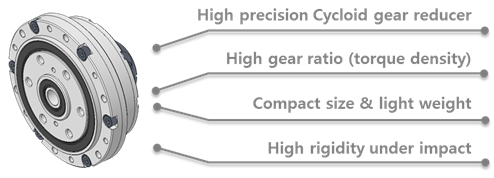
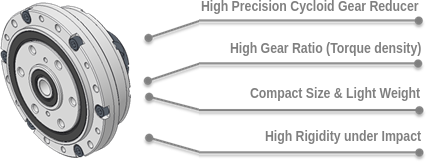
dyd minor update

diff --git a/docs/en/dyd/all_dyd.md b/docs/en/dyd/all_dyd.md
@@ -18,8 +18,6 @@ Generally, a traditional Cycloidal Gear Drive is well known as being strong but 
 
 ![](/assets/images/dyd/dyd_spec_01.png)
 
-McMaster-Carr - industrial-focus distributor of hardware and components. They stock a healthy selection of related items including servos / stepper motors, DC motors, etc. https://www.mcmaster.com/motors/
-{: .notice}
 
 |                      Characteristics                      |  Planetary  |  Harmonic   |     DYD     |
 |:---------------------------------------------------------:|:-----------:|:-----------:|:-----------:|
@@ -29,7 +27,7 @@ McMaster-Carr - industrial-focus distributor of hardware and components. They st
 |                       Light Weight                        | **&#9651;** | **&#9678;** | **&#9678;** |
 |                         Backlash                          | **&#9651;** | **&#9678;** |  &#11093;   |
 |                        Efficiency                         | **&#9678;** | **&#9678;** | **&#9678;** |
-|               Rigidity under impact (shock)               |  &#11093;   | **&#9651;** |  &#11093;   |
+|               Rigidity under impact (shock)               |  &#11093;   | **&#9651;** | **&#9678;** |
 |                     Noise & vibration                     | **&#9651;** | **&#9678;** |  &#11093;   |
 | Operating time to failure under heavy operating condition |  &#11093;   | **&#9651;** | **&#9678;** |
 
@@ -37,19 +35,19 @@ McMaster-Carr - industrial-focus distributor of hardware and components. They st
 
 ![](/assets/images/dyd/dyd_features_01.png)
 
-- Ultra High Impact Resistant
-- Lightweight
-- Hight Precision & Strong Rigidity
-- Compact Gear Module & Simple Design
+- High Durability and Strong Rigidity
+- High Impact Resistance
+- High Precision
 - Variable Gear Ratio
-- Less Backlash & Hight Efficiency
+- High Efficiency & Low Backlash
+- Lightweight & Compact Gear Module
 
 ## [Gear Ratio and Rotational Direction](#gear-ratio-and-rotational-direction)
 
 In the following image, it is shown that the rotational direction of the input motor and the output component depends on the fixed position of the reducer. When the DYD drive is fixed and the output flange is rotating, the rotational direction is opposite to the input direction while the output speed becomes reciprocal of the input speed(R). If the DYD drive housing is rotating while the output flange is fixed to the frame, the rotating direction of input and output is the same while the output becomes reciprocal of the input speed + 1(R+1).
 
 
-|     Fixed     | Output speed | Input direction | output direction |                       Example                       |
+|     Fixed     | Output Speed | Input Direction | Output Direction |                       Example                       |
 |:-------------:|:------------:|:---------------:|:----------------:|:---------------------------------------------------:|
 |    Housing    |  i=(-1)1/R   |   Cathode (+)   |    Anode (-)     |    ![](/assets/images/dyd/dyd_housing_01_kr.png)    |
 | Output flange |  i=1/(R+1)   |   Cathode (+)   |   Cathode (+)    | ![](/assets/images/dyd/dyd_output_flange_01_kr.png) |
@@ -88,17 +86,15 @@ In the following image, it is shown that the rotational direction of the input m
 |     DYD      |     14     | 51, 99 |      C,D      | S, RG, PG |         SP         |
 |     DYD      |     17     | 51, 99 |      C,D      | S, RG, PG |         SP         |
 
-- Please contact us at [develop@robotis.com](mailto:develop@robotis.com)
-
 # [Product Selection Guide](#product-selection-guide)
 
-## [Selection Flow Chart](#Selection-flow-chart)
+## [Selection Flow Chart](#selection-flow-chart)
 
 When configuring a system with reducers, the load applied to the reducer normally fluctuates during acceleration/deceleration or emergency conditions, therefore, it is recommended to reflect various operation conditions to estimate the average load and speed to select the appropriate DYD product.
 
 ![](/assets/images/dyd/dyd_selection_flowchart_01.png)
 
-## [Duty cycle](#duty-cycle)
+## [Duty Cycle](#duty-cycle)
 
 In the figure below shows an example of various torque and speed conditions during an operation. These values are critical factors in determining the lifecycle of the DYD product.
 
@@ -117,7 +113,7 @@ In the figure below shows an example of various torque and speed conditions duri
 |     t      | Duty cycle time [s]                        |     -      | -                                         |
 |            |                                            |     -      | -                                         |
 
-## [Average output load](#average-output-load)
+## [Average Output Load](#average-output-load)
 
 The average output load can be calculated as below.
 
@@ -125,7 +121,7 @@ The average output load can be calculated as below.
 
 ![](/assets/images/dyd/dyd_average_output_torque_02.png)
 
-## [Average input speed](#average-input-speed)
+## [Average Input Speed](#average-input-speed)
 
 The average input speed can be calculated as below.
 
@@ -133,7 +129,7 @@ The average input speed can be calculated as below.
 
 ![](/assets/images/dyd/dyd_average_input_speed_02.png)
 
-## [Service life)](#service-life)
+## [Service Life)](#service-life)
 
 The service life of DYD is determined by the fatigue failure of the bearings on the input shaft. Other factors that may affect the actual service life, such as insufficient lubrication, contamination or overload are not taken into account. The nominal service life is provided based on a statistical test value.  
 
@@ -152,7 +148,7 @@ The required service life for a given speed and load values can be calculated as
 
 ## [Product Selection Example](#product-selection-example)
 
-### [Define the duty cycle](#define-the-duty-cycle)
+### [Define the Duty Cycle](#define-the-duty-cycle)
 
 | Properties | Description                                | Value | Note |
 |:----------:|:-------------------------------------------|:-----:|:-----|
@@ -168,13 +164,13 @@ The required service life for a given speed and load values can be calculated as
 |     t4     | idle time [s]                              |   0   | -    |
 |     Lh     | Required service life [hours]              | 5,000 | -    |
 
-### [Average output load calculation](#average-output-load-calculation)
+### [Average Output Load Calculation](#average-output-load-calculation)
 
 | Properties | Description         | Value | Note |
 |:----------:|:--------------------|:-----:|:-----|
 |     Ta     | Average output load | 4.72  | cal. |
 
-### [Average input speed calculation](#average-input-speed-calculation)
+### [Average Input Speed Calculation](#average-input-speed-calculation)
 
 | Properties | Description         |  Value  | Note |
 |:----------:|:--------------------|:-------:|:-----|
@@ -208,14 +204,14 @@ The required service life for a given speed and load values can be calculated as
 |     TR     | Nominal torque [Nm]            |   5.4   | -              |
 |     Ta     | Average output torque [Nm]     |  4.72   | See data sheet |
 
-### [Service life comparison: DYD-14-051](#service-life-comparison-dyd-14-051)
+### [Service Life Comparison: DYD-14-051](#service-life-comparison-dyd-14-051)
 
 Required service life : 5,000 hours > Expected service life : 4,880 hours
 
 **Note**: The expected service life does not meet the required service life.
 {: .notice}
 
-### [Select another part number : DYD-14-099](#select-another-part-number--dyd-14-099)
+### [Select another Part Number : DYD-14-099](#select-another-part-number--dyd-14-099)
 
 |             Properties             | DYD-14-099 |
 |:----------------------------------:|:----------:|
@@ -230,7 +226,7 @@ Required service life : 5,000 hours > Expected service life : 4,880 hours
 |         Dimension (W X H)          |  ø68 x 30  |
 |               Weight               |    400     |
 
-### [Expected service life calculation: DYD-14-099](#expected-service-life-calculation-dyd-14-099)
+### [Expected Service Life Calculation: DYD-14-099](#expected-service-life-calculation-dyd-14-099)
 
 | Properties | Description                    |  Value  | Note           |
 |:----------:|:-------------------------------|:-------:|:---------------|
@@ -241,25 +237,25 @@ Required service life : 5,000 hours > Expected service life : 4,880 hours
 |     TR     | Nominal torque [Nm]            |   7.8   | See data sheet |
 |     Ta     | Average output torque [Nm]     |  4.72   | -              |
 
-### [Service life comparison: DYD-14-099](#service-life-comparison-dyd-14-099)
+### [Service Life Comparison: DYD-14-099](#service-life-comparison-dyd-14-099)
 
 Required service life : 5,000 hours > Expected service life : 5,520 hours
 
-### [Calculate the Output speed](#calculate-the-output-speed)
+### [Calculate the output speed](#calculate-the-output-speed)
 
 Output Speed i=-(1/R)*V_in = -(1/99)*3,000=30.3 rpm 
 
-### [Calculate the Peak torque](#calculate-the-peak-torque)
+### [Calculate the Peak Torque](#calculate-the-peak-torque)
 
 Maximum torque within the duty cycle = 7.5 Nm < 39 Nm (Repeatable peak torque)
 
-### [Check the Starting torque](#check-the-starting-torque)
+### [Check the Starting Torque](#check-the-starting-torque)
 
 Starting Torque = 20 cNm (DYD-14)
 
 ### [Confirm the Part Number : DYD-14-099](#confirm-the-part-number--dyd-14-099)
 
-### [Select the type of Input Shaft](#select-the-type-of-input-shaft)
+### [Select the Type of Input Shaft](#select-the-type-of-input-shaft)
 
 | Option |                   Type - C                    |               Type - D                |                  Type-SC                  |
 |:------:|:---------------------------------------------:|:-------------------------------------:|:-----------------------------------------:|
